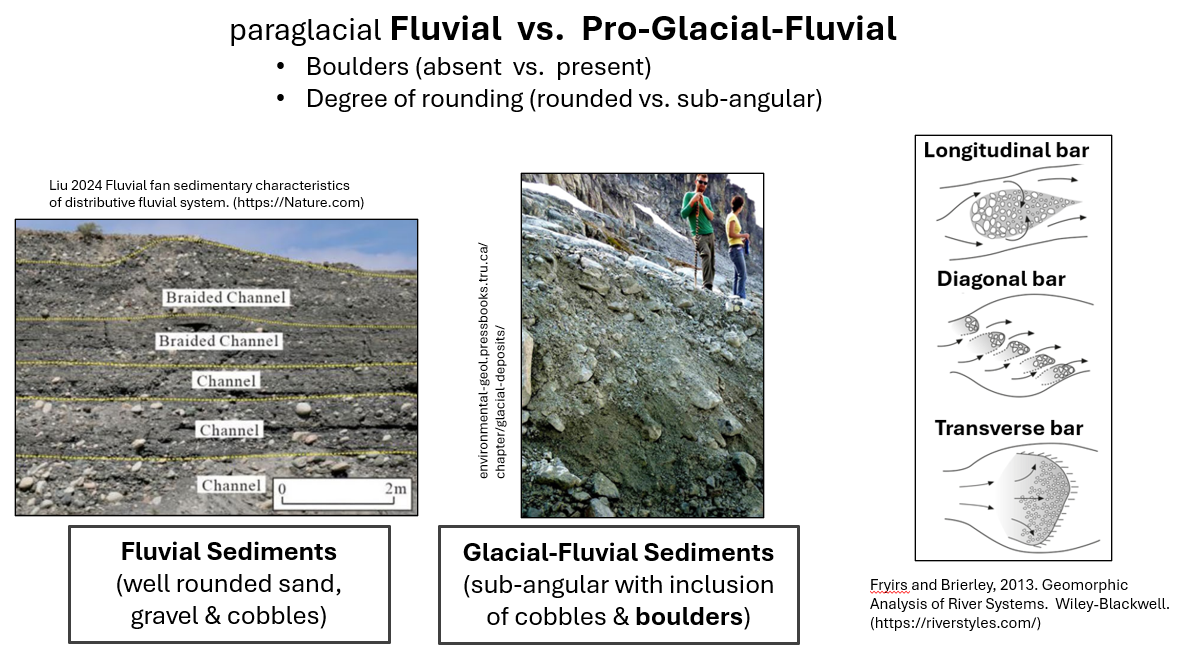
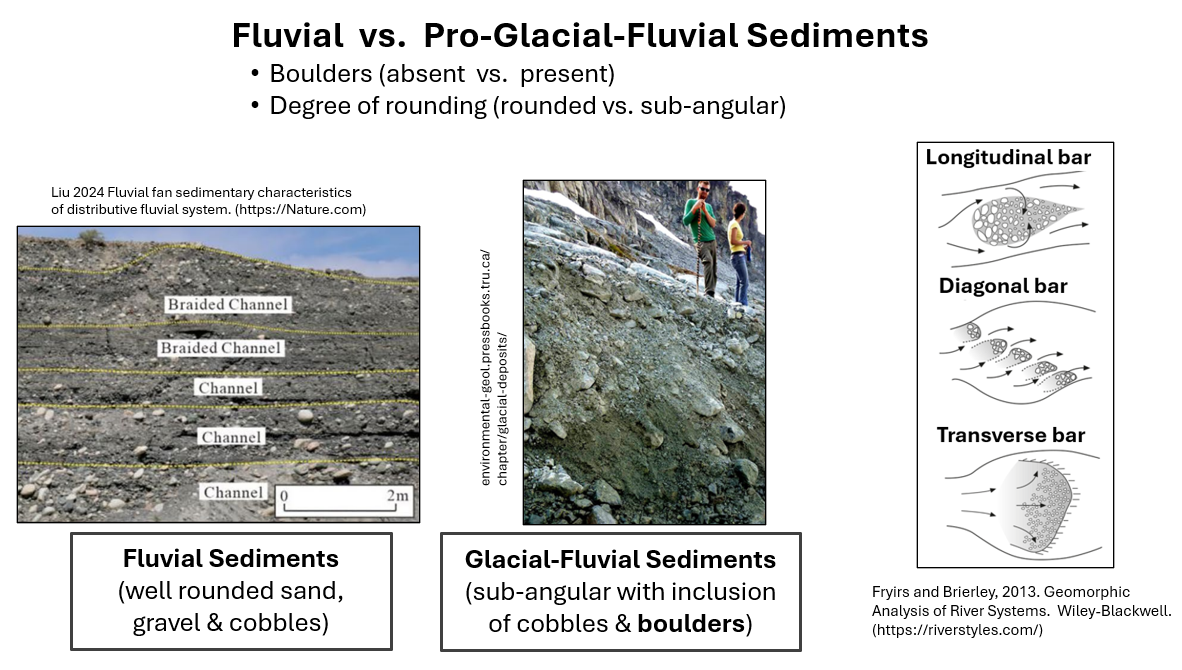
added bars

diff --git a/Final_Project_Report/subArea_GlacialGeom.html b/Final_Project_Report/subArea_GlacialGeom.html
@@ -13,7 +13,7 @@
     <div style="margin-top: 20px; margin-left: 50px; margin-bottom: 5px;">
 
         <p style="margin-top: 0px; margin-left: 0px; margin-bottom: 1px;">
-            This short introduction to glacial geomorphology focuses on the glacial geomorphic features that are common in the <br>
+            &emsp;&emsp;This short introduction to glacial geomorphology focuses on the glacial geomorphic features that are common in the <br>
             Upper Narraguagus River valley.<br><br>
             <strong>Table of Contents</strong><br>
             - Glacial Geomorphic Environments<br>
@@ -30,16 +30,37 @@
         <img src="images/ProFluvialSed.png" alt="Pro-Fluvial Sediments" height="350px">
         <h4 style="margin-top: 0px; margin-left: 0px; margin-bottom: 0px;">
             Figure - Fluvial vs. Pro-Glacial Fluvial Sediments.</h4>
+
+        <p style="margin-top: 5px; margin-left: 0px; margin-bottom: 1px;">
+            &emsp;&emsp;The sediments that form in-channel geomorphic units, such as rivers bars, can help identify the environments <br>
+            in which the bars were formed.  Longitudinal, transverse and diagonal bars all have disinct sorting patterns within the bar. <br>
+            The size (gravel, cobbles or boulders) of the coursest sediments and their shape (rounded or subangular) indicates the environment <br>
+            (pro-glacial-fluvial, para-glacial-fluvial or fluvial) in which they were formed.  For additional information about the formation <br>
+            and sediment distribution of common in-channel bar types see the following.
+        </p><br><br>
+        
+        <a href="https://riverstyles.com/?portfolio=longitudinal-bar-median-bar">
+            <p style="margin-top: 0px; margin-left: 3px; margin-bottom: 2px;">
+                Longitudinal Bars</p></a>
+
+        <a href="https://riverstyles.com/?portfolio=transverse-bar-linguoid-bar">
+            <p style="margin-top: 0px; margin-left: 3px; margin-bottom: 2px;">
+                Transverse (Linguoid) Bars</p></a>
+
+        <a href="https://riverstyles.com/?portfolio=diagonal-bar-diamond-bar">
+            <p style="margin-top: 0px; margin-left: 3px; margin-bottom: 2px;">
+                Diagonal (Diamond) Bars</p></a>
+
         <hr>
 
 
 
     </div>
+
+
+    <!-- ============================================================================================== -->
+    <br><br>
     <hr>
-
-
-    <!-- =========================================================== -->
-
     <h4 style="margin-top: 0px; margin-left: 0px; margin-bottom: 2px;">
         Click on page name (below) to go there!</h4>
     <a href="../Final_Project_Report/overviewSubArea1.html"><p style="margin-top: 0px; margin-left: 3px; margin-bottom: 1px;">SubArea_1_Overview</p></a>
